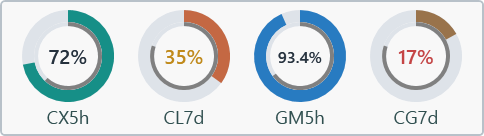
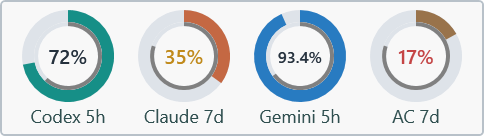
Prepare v0.3.0 and document the redesigned monitor
- Bump the version to 0.3.0 and point downloads at the v0.3.0 release.
- Describe icon buttons, problem banners, the ring menu, drag and drop,
  quota names, one-row Settings, instant provider saves, and Codex
  renewal in the README and the bundled Windows guide.
- Note the Codex renewal time and early sign-in exits in provider notes.
- Regenerate sample-data screenshots.

diff --git a/README.md b/README.md
@@ -2,7 +2,7 @@
 
 See how much of your AI coding quota is left, when each window resets, and whether you are spending faster than time is passing. It lives in the Windows tray and never sends a prompt to find out.
 
-**[Download the Windows installer](https://github.com/mahlernim/agent-quota-monitor-windows/releases/download/v0.2.4/agent-quota-monitor-windows-0.2.4-setup-win-x64.exe)** · [Portable ZIP](https://github.com/mahlernim/agent-quota-monitor-windows/releases/download/v0.2.4/agent-quota-monitor-windows-0.2.4-win-x64.zip) · [Release notes](https://github.com/mahlernim/agent-quota-monitor-windows/releases/tag/v0.2.4)
+**[Download the Windows installer](https://github.com/mahlernim/agent-quota-monitor-windows/releases/download/v0.3.0/agent-quota-monitor-windows-0.3.0-setup-win-x64.exe)** · [Portable ZIP](https://github.com/mahlernim/agent-quota-monitor-windows/releases/download/v0.3.0/agent-quota-monitor-windows-0.3.0-win-x64.zip) · [Release notes](https://github.com/mahlernim/agent-quota-monitor-windows/releases/tag/v0.3.0)
 
 ![Main window with grouped quota rings](docs/images/main-window.png)
 
@@ -18,6 +18,7 @@ See how much of your AI coding quota is left, when each window resets, and wheth
 - **Pace, not just percentages.** Each ring compares quota left with time left in its window and warns you in amber or red when you are ahead of pace.
 - **Uses the sign-ins you already have.** Quotas are read through the official clients' existing sessions. The monitor never takes over sign-in, renews tokens, or switches accounts.
 - **Honest when data is old.** Values that could not be refreshed stay visible in gray with the reason, and values from before a reset are shown as unknown.
+- **Fixes where you look.** When an account has a problem, a short banner under it explains why and offers the one action that helps.
 - **Private by design.** No telemetry and no model prompts. Local data is encrypted for your Windows account, and the reader listens on loopback only.
 
 ## Contents
@@ -34,9 +35,9 @@ See how much of your AI coding quota is left, when each window resets, and wheth
 
 ## Install
 
-1. Download and run the [Windows x64 installer](https://github.com/mahlernim/agent-quota-monitor-windows/releases/download/v0.2.4/agent-quota-monitor-windows-0.2.4-setup-win-x64.exe). No administrator rights are needed.
+1. Download and run the [Windows x64 installer](https://github.com/mahlernim/agent-quota-monitor-windows/releases/download/v0.3.0/agent-quota-monitor-windows-0.3.0-setup-win-x64.exe). No administrator rights are needed.
 2. Open **Agent Quota Monitor** from the Start menu.
-3. Open **Settings**, tick the providers you use, and click **Save monitored providers**.
+3. Open **Settings** (the gear icon) and tick the providers you use. Changes save right away.
 
 Python and .NET runtimes are bundled. You still need the official coding client for each provider you use.
 
@@ -50,12 +51,14 @@ Any combination works, and one provider is enough. If an official client is alre
 
 | Provider | Official source the monitor reads | How to connect |
 | --- | --- | --- |
-| OpenAI Codex | Codex CLI session | Settings, then **Sign in** |
+| OpenAI Codex | Codex app or CLI session | Settings, then **Sign in** |
 | Anthropic Claude (direct subscription) | Claude Code session | Settings, then **Sign in** |
 | Google Antigravity | Antigravity CLI (`agy`), or the running desktop app | Settings, then **Install CLI** or **Open desktop app** |
 | GitHub Copilot (optional) | GitHub CLI and Copilot SDK | One-time [Copilot setup](docs/copilot-setup.md), then **Sign in** |
 
 A browser-only login may not create the session the monitor reads. Sign in through the official client instead.
+
+The official clients renew their own sessions while you use them. If a session lapses, open that client (Codex, or Claude Code) and the monitor resumes by itself. Settings shows when a Claude Code session expires and when a Codex session was last renewed.
 
 ### Google Antigravity
 
@@ -73,7 +76,7 @@ After a successful CLI reading, the account marked **CLI** replaces desktop-sour
 
 Accounts are matched by stable provider identity, never by email label, so two accounts with the same address stay separate. Direct Claude subscriptions are kept apart from the Claude and GPT allowance supplied by Antigravity. To change accounts, use the provider's own client.
 
-**Remove** in Settings hides an account and stops monitoring it. It does not sign you out or touch credentials. **Restore hidden accounts** brings it back.
+**Hide** (the crossed-out eye in Settings) stops monitoring an account. It does not sign you out or touch credentials. **Restore hidden accounts** brings it back.
 
 ## Read a quota ring
 
@@ -85,26 +88,35 @@ Hover any ring for exact values, the reset time, pace, and, when something is wr
 
 ## Everyday use
 
-- **Click a ring** to show that quota in the system tray. The chosen ring is labelled **Tray**.
+- **Click a ring** to show that quota in the system tray. The chosen ring gets a blue outline and a small tray icon.
 - **Click the pin** at a ring's top-right corner to pin or unpin it on the floating monitor. Filled violet means pinned.
-- **Toolbar.** Refresh, Floating, Reorder, Settings, and Quit.
-- **Reorder** moves accounts up or down and rings left or right. Each move saves immediately, and pins and the tray choice follow their rings.
+- **Right-click a ring** to show it in the tray, pin it, move it, move its account, or copy its details.
+- **Drag a ring** to reorder it within its account, or **drag an account name** to reorder accounts. With the keyboard, press Alt with the arrow keys on a focused ring. Pins and the tray choice follow their rings.
+- **Toolbar icons.** Refresh, floating monitor, Settings, and Quit. Hover an icon to see what it does.
 - **Floating monitor.** Drag to move it, double-click to open the main window, and right-click for **Size** (75 to 200%) and **Opacity** (35 to 100%). Its size, opacity, and position are remembered.
 - **Close** hides the main window to the tray. **Quit** exits and stops the quota reader it started.
 
-Settings shows each account's identity, reading source, last successful read, next eligible read, and when an official session expires.
+### Names on rings
+
+Rings show short names such as **Codex 5h** or **Gemini 7d**. The tray icon uses initials: CX (Codex), CL (Claude), AG (Antigravity Gemini), AC (Antigravity Claude and GPT), and CP (Copilot). Change both under **Quota names** in Settings. Long names are narrowed to fit, and the floating monitor falls back to initials when a name doesn't fit. Names never change colors or which account a ring belongs to.
+
+### Settings
+
+Each account takes one row with its status. **Details** shows the last and next read, session times, and the reading source. The copy icon copies support details without credentials or your account label. To reorder accounts there, choose **Edit order**, drag rows or press Alt with Up and Down, then **Save order**.
 
 ## Stale readings and what they mean
 
-A gray **STALE** ring shows the last value the monitor could read. It never means zero, and a missing window never means unlimited. The ring tooltip and Settings explain the cause.
+A gray ring with a **stale** badge shows the last value the monitor could read. It never means zero, and a missing window never means unlimited. A banner under the account explains the cause and offers the fix.
 
-| What you see | What it means | What to do |
+| Banner | What it means | Action |
 | --- | --- | --- |
-| Antigravity CLI is not installed and the desktop app is closed | No Antigravity source is running | Use **Install CLI** in Settings, or open the desktop app |
-| The Claude Code session expired | Claude Code has not renewed its session recently | Open Claude Code. The monitor resumes by itself once the session is renewed |
-| No network connection | Requests could not reach the provider | Nothing. The monitor retries every five minutes and again when Windows reconnects or wakes |
-| The provider changed its response format | A provider update changed its data | Check for a monitor update. The monitor checks once on its own if automatic checks are on |
-| Reset since the last read | The window has reset since the value was read | Wait for the next reading. The old value is hidden because it no longer applies |
+| The Antigravity CLI isn't installed and the desktop app is closed | No Antigravity source is running | **Install CLI**, or open the desktop app |
+| The Antigravity CLI needs sign-in | The CLI session lapsed | **Copy command**, then run `agy -p /usage` in a terminal |
+| Codex didn't accept the saved session | The Codex session lapsed | Open Codex, or **Sign in** |
+| Your Claude Code session expired | Claude Code hasn't renewed its session recently | Open Claude Code. The monitor resumes by itself |
+| No network connection | Requests couldn't reach the provider | **Retry**, or wait. The monitor also retries when Windows reconnects or wakes |
+| The provider changed its data format | A provider update changed its data | **Check for updates** |
+| Reset since the last read (ring tooltip) | The window reset after the value was read | Wait for the next reading. The old value is hidden |
 
 When an official app closes, its recent reading stays live until it is ten minutes old, then turns stale. **Refresh** always respects provider cooldowns. Settings shows when each account can be read again.
 
@@ -130,9 +142,11 @@ To uninstall, use Windows **Installed apps**. App files, shortcuts, and the star
 - **Antigravity goes stale when the desktop app closes.** Install the Antigravity CLI from Settings. See [Google Antigravity](#google-antigravity).
 - **An Antigravity CLI account is stale.** Wait for the next eligible read shown in Settings, then press **Refresh**. If the CLI needs sign-in, run `agy` in a terminal, sign in, run `agy -p /usage`, and refresh again.
 - **Claude says the session expired.** Open Claude Code. If Claude Code itself reports that you are signed out, use **Sign in** in Settings.
+- **Codex says the session wasn't accepted.** Open the Codex app or CLI. If that doesn't help, use **Sign in**.
+- **Codex Sign in stops right away.** The Codex client exited before sign-in started. Update it with `npm install -g @openai/codex@latest`, check `~/.codex/config.toml`, or sign in through the Codex app.
 - **Claude says the read was rejected.** Check `claude auth status`, open Claude Code to let it renew its session, and press **Refresh**. If it still fails, sign in again through Claude Code.
 - **Copilot shows nothing.** Complete the one-time [Copilot setup](docs/copilot-setup.md), then use **Sign in** and finish the prompts in the console window.
-- **The quota reader is unavailable.** Click **Retry connection** in the toolbar. If it stays unavailable, use **Quit** and reopen the monitor. After an upgrade, the monitor replaces a reader left over from the previous version automatically.
+- **The quota reader is unavailable.** Click the refresh icon, which retries the connection. If it stays unavailable, use **Quit** and reopen the monitor. After an upgrade, the monitor replaces a reader left over from the previous version automatically.
 - **The portable copy does nothing when launched.** Make sure the whole ZIP was extracted, including the `backend` folder.
 - **An update could not be verified.** Nothing was installed. Try again later or use **Download update**.
 

diff --git a/docs/windows.md b/docs/windows.md
@@ -4,17 +4,17 @@ Monitor your AI coding quotas from the Windows tray, main window, or compact flo
 
 ## Install and launch
 
-Use the [Windows installer](https://github.com/mahlernim/agent-quota-monitor-windows/releases/download/v0.2.4/agent-quota-monitor-windows-0.2.4-setup-win-x64.exe) for a Start menu shortcut and an optional desktop shortcut. Installation is per user and needs no administrator rights.
+Use the [Windows installer](https://github.com/mahlernim/agent-quota-monitor-windows/releases/download/v0.3.0/agent-quota-monitor-windows-0.3.0-setup-win-x64.exe) for a Start menu shortcut and an optional desktop shortcut. Installation is per user and needs no administrator rights.
 
-For the [portable ZIP](https://github.com/mahlernim/agent-quota-monitor-windows/releases/download/v0.2.4/agent-quota-monitor-windows-0.2.4-win-x64.zip), extract the entire archive into a permanent folder and run `agent-quota-monitor-windows.exe`. Keep the `backend` folder and all runtime files beside the executable. Python and .NET runtimes are included.
+For the [portable ZIP](https://github.com/mahlernim/agent-quota-monitor-windows/releases/download/v0.3.0/agent-quota-monitor-windows-0.3.0-win-x64.zip), extract the entire archive into a permanent folder and run `agent-quota-monitor-windows.exe`. Keep the `backend` folder and all runtime files beside the executable. Python and .NET runtimes are included.
 
 The installer and application are unsigned. Windows may display an unknown-publisher warning.
 
 ## Connect your providers
 
-Open **Settings**, select your providers, and click **Save monitored providers**. Existing sessions from official coding clients are detected within a minute. A browser sign-in alone may not be enough.
+Open **Settings** (the gear icon) and select your providers. Changes save right away. Existing sessions from official coding clients are detected within a minute. A browser sign-in alone may not be enough.
 
-- **Codex and Claude.** **Sign in** launches the official client's sign-in. Install the official clients first.
+- **Codex and Claude.** **Sign in** launches the official client's sign-in. Install the official clients first. The clients renew their own sessions while you use them. If a session lapses, open that client and the monitor resumes by itself.
 - **Antigravity.** The official Antigravity CLI (`agy`) lets the monitor read quota while the desktop app is closed. When `agy` is missing, **Install CLI** shows Google's exact install command, `irm https://antigravity.google/cli/install.ps1 | iex`, and runs it in a visible PowerShell window only after you confirm. That window then runs `agy -p /usage` so you can sign in. You can also follow the [official instructions](https://antigravity.google/docs/cli/install) yourself. **Open desktop app** opens the Antigravity desktop app, which can supply readings while it runs. Gemini CLI does not report Antigravity quota. API-key mode is not supported.
 - **Copilot.** Needs the optional [one-time setup](https://github.com/mahlernim/agent-quota-monitor-windows/blob/main/docs/copilot-setup.md). **Sign in** opens the official GitHub CLI and browser. Leave the console open until sign-in finishes.
 
@@ -22,29 +22,34 @@ After a successful CLI reading, the Antigravity account marked **CLI** replaces 
 
 Accounts remain separate by verified identity, even when email labels match. Direct Claude subscriptions are separate from Claude or GPT allowance supplied by Antigravity. Use a provider's own client to change accounts. The monitor never switches accounts automatically.
 
-**Remove** hides an account and stops monitoring it without signing out or deleting credentials. **Restore hidden accounts** brings it back.
+**Hide** (the crossed-out eye in Settings) stops monitoring an account without signing out or deleting credentials. **Restore hidden accounts** brings it back.
 
 ## Use the monitor
 
-- Click a ring to choose the system-tray quota. Its label shows **Tray**.
+- Click a ring to choose the system-tray quota. It gets a blue outline and a small tray icon.
 - Click the pin at a ring's top-right corner to pin or unpin it on the floating monitor. Filled violet means pinned.
-- Hover a ring for percentages, reset times, pace, and guidance when a reading has a problem.
-- **Floating** shows or hides the floating monitor. Drag it to move it, double-click it to show the main window, and right-click it for **Size** and **Opacity**.
-- **Reorder** moves accounts up or down and rings left or right. Each move saves immediately.
+- Right-click a ring to show it in the tray, pin it, move it, move its account, or copy its details.
+- Drag a ring to reorder it within its account, or drag an account name to reorder accounts. Alt with the arrow keys does the same for a focused ring.
+- Hover a ring for percentages, reset times, and pace. Hover a toolbar icon to see what it does.
+- The floating monitor icon shows or hides the floating monitor. Drag it to move it, double-click it to show the main window, and right-click it for **Size** and **Opacity**.
 - **Close** hides the main window to the tray. **Quit** exits and stops the quota reader if this app started it.
 
 The thick outer ring shows quota remaining in the provider's color. The thin gray inner ring shows time remaining when the reset time is known. Percentage text turns amber when quota remaining falls below half of time remaining, and red below one quarter.
 
-Settings shows each account's identity, reading source, last successful read, next eligible read, and when an official session expires.
+Rings show short names such as **Codex 5h**. The tray icon uses initials: CX, CL, AG (Antigravity Gemini), AC (Antigravity Claude and GPT), and CP. Change both under **Quota names** in Settings. Names never change colors or account grouping.
+
+In Settings, each account takes one row. **Details** shows the last and next read, session times, and the reading source. The copy icon copies support details without credentials or your account label.
 
 ## Stale readings
 
-A gray **STALE** ring preserves the last value that could be read. It does not mean zero, and a missing window never means unlimited. A value read before its window reset is shown as unknown until a new reading arrives. The ring tooltip and Settings explain the cause.
+A gray ring with a **stale** badge preserves the last value that could be read. It does not mean zero, and a missing window never means unlimited. A value read before its window reset is shown as unknown until a new reading arrives. A banner under the account explains the cause and offers one action.
 
 - **Antigravity CLI missing and desktop app closed.** Use **Install CLI**, or open the desktop app.
+- **Antigravity CLI needs sign-in.** **Copy command**, then run `agy -p /usage` in a terminal.
+- **Codex didn't accept the session.** Open Codex, or use **Sign in**.
 - **Claude Code session expired.** Open Claude Code. The monitor resumes once Claude Code renews its session.
-- **No network connection.** The monitor retries every five minutes and again when Windows reconnects or wakes from sleep.
-- **Provider format changed.** Check for a monitor update. With automatic checks on, the monitor checks once by itself.
+- **No network connection.** Use **Retry**, or wait. The monitor retries every five minutes and again when Windows reconnects or wakes from sleep.
+- **Provider format changed.** Use **Check for updates**. With automatic checks on, the monitor checks once by itself.
 
 When an official app closes, its recent reading stays live for up to ten minutes before turning stale. **Refresh** respects provider cooldowns.
 
@@ -70,7 +75,7 @@ Uninstall the installed version through Windows Installed apps. This removes app
 
 - **An account is missing.** Confirm that the official client has a valid session, wait a minute, and press **Refresh**.
 - **An Antigravity CLI account is stale.** Wait for the next eligible read shown in Settings. If the CLI needs sign-in, run `agy` in a terminal, sign in, run `agy -p /usage`, and press **Refresh**.
-- **The quota reader is unavailable.** Click **Retry connection**. If it stays unavailable, use **Quit** and reopen the monitor.
+- **The quota reader is unavailable.** Click the refresh icon, which retries the connection. If it stays unavailable, use **Quit** and reopen the monitor.
 - **The portable copy does nothing.** Confirm that the complete archive was extracted.
 
 ## Privacy and local data
@@ -79,6 +84,6 @@ The monitor reads official client sessions without taking over sign-in or renewa
 
 Quota settings and cached snapshots are encrypted for your Windows user under `%LOCALAPPDATA%\QuotaDashboard`. Non-secret update preferences are stored in your user registry. The quota reader communicates with the app over loopback only. It is intended for a trusted personal computer and does not isolate access from other local processes.
 
-Provider interfaces can change and interrupt readings. See the [release page](https://github.com/mahlernim/agent-quota-monitor-windows/releases/tag/v0.2.4) for release notes and the [development guide](https://github.com/mahlernim/agent-quota-monitor-windows/blob/main/docs/development.md) for building from source.
+Provider interfaces can change and interrupt readings. See the [release page](https://github.com/mahlernim/agent-quota-monitor-windows/releases/tag/v0.3.0) for release notes and the [development guide](https://github.com/mahlernim/agent-quota-monitor-windows/blob/main/docs/development.md) for building from source.
 
 MIT licensed. Independent project, not affiliated with or endorsed by any supported provider.

diff --git a/docs/development.md b/docs/development.md
@@ -45,7 +45,7 @@ Documentation images render the same native controls with synthetic sample data.
 
 The native account tests exercise ordering, draft conflicts, account controls, and separate operation and connection feedback through synthetic HTTP responses. Append `-- <output.png>` to their command to render a sample Settings window without connecting provider accounts.
 
-Python persistence tests cover discovery misses, Claude session expiry, network failure classification, wake requests, and the Antigravity CLI install offer. Upgrade tests cover the reader's version echo. Update policy tests also cover installer detection and SHA-256 verified downloads with redirect restrictions.
+Python persistence tests cover discovery misses, Claude session expiry, network failure classification, wake requests, and the Antigravity CLI install offer. Upgrade tests cover the reader's version echo and quota name validation. Native account checks cover problem actions per provider and source, serialized provider saves, quota names, and the Details and Copy details contents. The rendering self-test covers uniform cards, the ring context menu, drag offsets, and label fitting. Update policy tests also cover installer detection and SHA-256 verified downloads with redirect restrictions.
 
 Backend tests cover compatibility, startup deadlines, cancellation, process ownership, and replacement of a reader from another app version. Lifecycle tests exercise delayed responses during shutdown, malformed snapshots, floating-window preferences, and simultaneous launches. The backend identity marker prevents accidental connection to a different service but does not authenticate local callers.
 

diff --git a/docs/provider-evidence.md b/docs/provider-evidence.md
@@ -4,7 +4,7 @@ These integrations were exercised on Windows during development. Internal provid
 
 ## Codex
 
-Reads the official Codex session and its account-scoped `/wham/usage` response. Account identity must match. Window durations are interpreted explicitly rather than assuming primary means five hours. Official login owns credential renewal. The [app-server interface](https://learn.chatgpt.com/docs/app-server) is a possible future replacement for the internal HTTP reader.
+Reads the official Codex session and its account-scoped `/wham/usage` response. Account identity must match. Window durations are interpreted explicitly rather than assuming primary means five hours. Official login owns credential renewal. The non-secret `last_refresh` value in `auth.json` is shown as the time the session was last renewed. The access token is never decoded, and no expiry is predicted, because `auth.json` has no separate expiry field and the token lifetime is not documented. On one Windows machine in September 2026, Codex CLI 0.120 could not load a `config.toml` that set a `service_tier` value only newer clients understand, so sign-in exited at once. Sign-in reports such early exits with possible fixes and still discards client output. The [app-server interface](https://learn.chatgpt.com/docs/app-server) is a possible future replacement for the internal HTTP reader.
 
 ## Direct Claude
 
